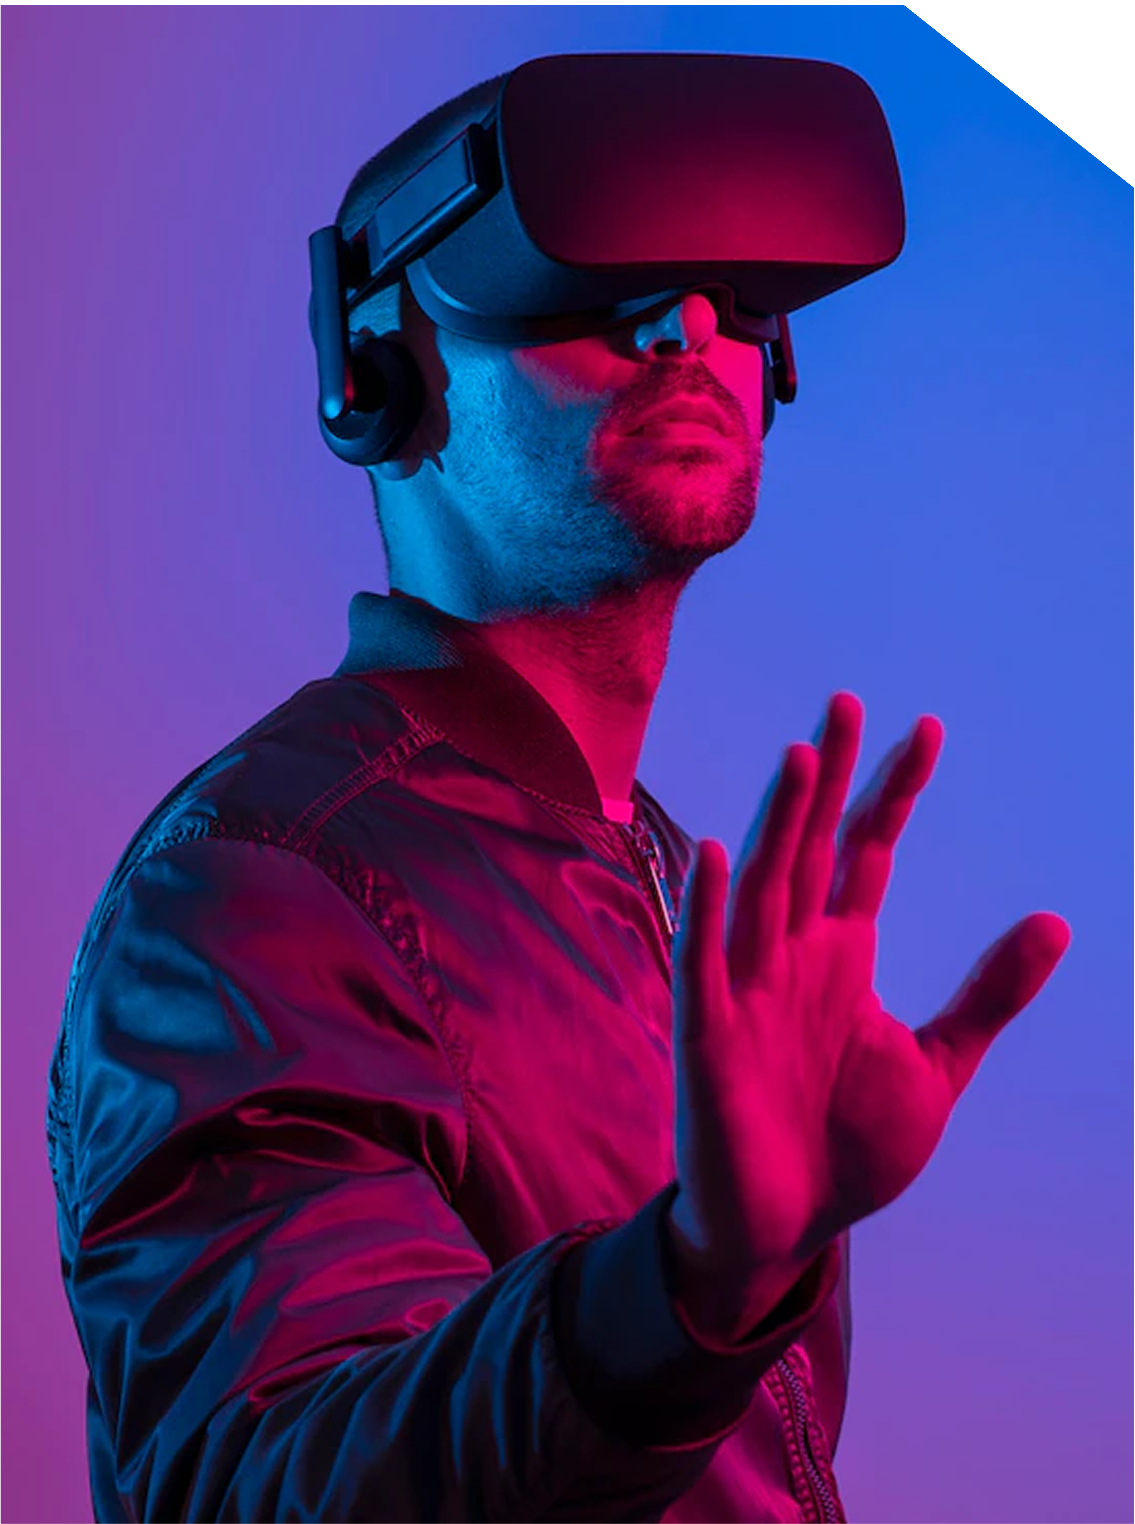
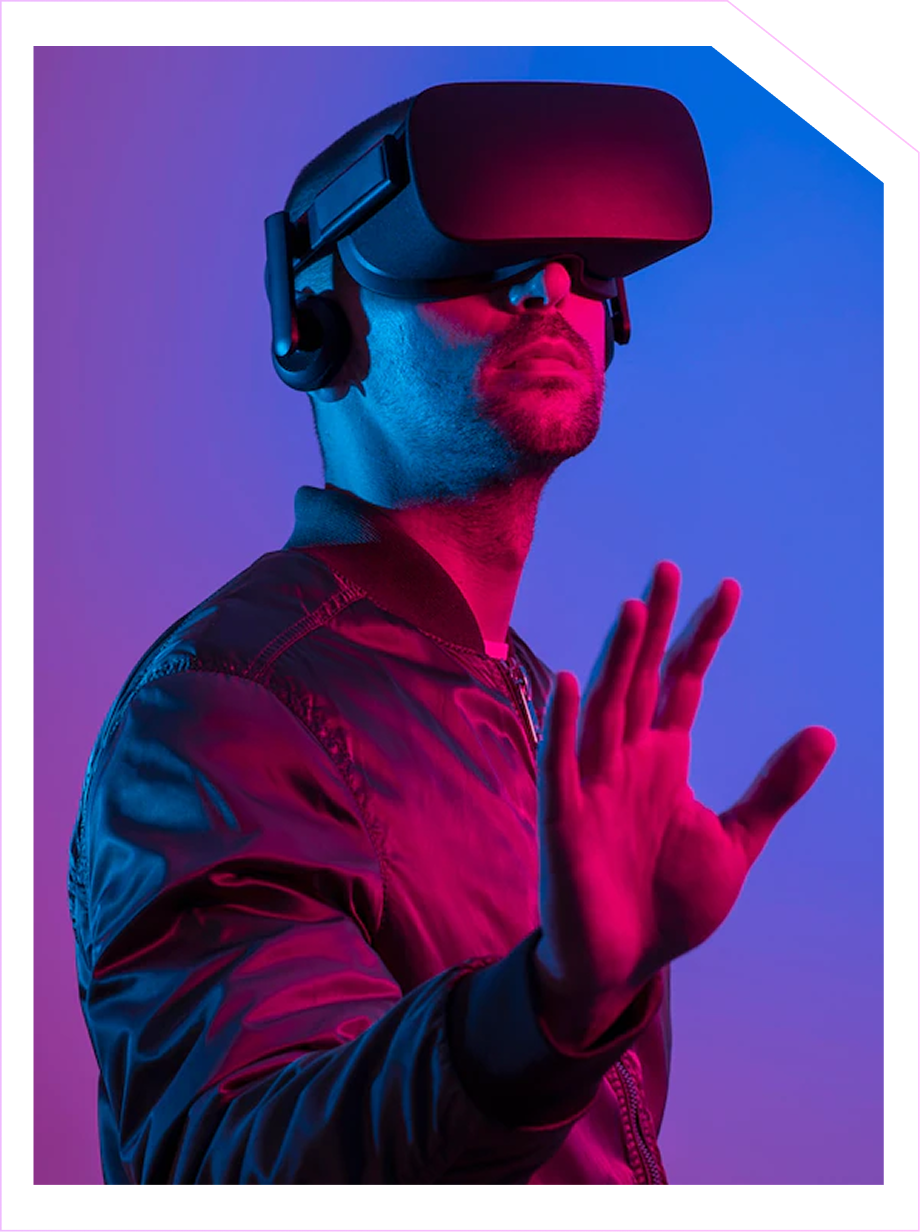
integrated fonts

diff --git a/src/components/sections/MarketOpportunities.jsx b/src/components/sections/MarketOpportunities.jsx
@@ -2,10 +2,7 @@ import Image from "next/image";
 
 const MarketOpportunities = () => {
   return (
-    <section
-      className="relative w-full flex items-center justify-center bg-cover bg-center px-6 py-6 md:py-20
-      bg-gradient-to-b from-[#0E1217] via-[#111827] to-[#0E1217] bg-blend-overlay"
-    >
+    <section className="relative w-full flex items-center justify-center bg-cover bg-center px-6 py-6 md:py-12 bg-gradient-to-b from-[#0E1217] via-[#0c331160] to-[#0E1217] bg-blend-overlay">
       {/* Background Images */}
       <div className="absolute inset-0">
         <Image
@@ -16,46 +13,47 @@ const MarketOpportunities = () => {
           quality={100}
         />
       </div>
+      <div className="absolute top-[33%] inset-0 backdrop-blur-lg bg-[#FFFFFF1A] z-10 h-[50%]"></div>
       <div className="p-6 md:p-6 rounded-lg max-w-5xl w-full text-white flex flex-col md:flex-row items-center gap-6 md:gap-12">
         {/* Image Section */}
-        <div className="relative w-full md:w-1/2">
+        <div className="relative z-20 w-full md:w-1/2 flex justify-end px-0 md:px-12">
           <div className="relative rounded-lg p-1">
             <Image
               src="/images/vr-user.png" // Replace with actual image path
               alt="VR User"
-              width={300}
-              height={400}
-              className="rounded-lg p-1 border border-gray-400  w-72 h-[60vh] object-cover"
+              width={400}
+              height={500}
+              className="rounded-lg p-1 w-[100%] h-auto object-cover"
             />
           </div>
         </div>
 
         {/* Text Content */}
-        <div className="w-full md:w-1/2">
-          <h2 className="text-2xl md:text-3xl font-bold mb-4">
+        <div className="w-full z-20 md:w-1/2">
+          <h2 className="text-2xl font-caudex md:text-4xl font-bold mb-4">
             Market Opportunities
           </h2>
-          <p className="text-sm md:text-base font-semibold mb-4">
+          <p className="text-sm md:text-md mt-8 font-poppins mb-4">
             Blackrose Club Targets The Most Active And Technology Savvy Target
             Group In The DACH Region And Will Later Expand To Serve The Global
             Market.
           </p>
-          <ul className="text-sm md:text-base space-y-2">
+          <ul className="text-sm md:text-md mt-3 font-poppins space-y-1">
             <li>
-              • <strong>Market:</strong> Around 66 Million E-Commerce Customers
+              • <strong>Market -</strong> Around 66 Million E-Commerce Customers
               In The DACH Region Spent Over 100 Billion Euros On Online
               Purchases In 2021. Most Popular Orders Were Clothes, Shoes, Food,
               And Beauty Products.
             </li>
             <li>
-              • <strong>Target Group:</strong> The Percentage Of Internet Users
+              • <strong>Target Group -</strong> The Percentage Of Internet Users
               In The EU Who Order Products Online Is Increasing, Especially
               Among 16-24 Years Old.
             </li>
             <li>
-              • <strong>Behavior:</strong> Consumers Prefer Online Over Physical
-              Orders Due To Convenience, Variety, Competitive Prices, And 24/7
-              Access.
+              • <strong>Behavior -</strong> Consumers Prefer Online Over
+              Physical Orders Due To Convenience, Variety, Competitive Prices,
+              And 24/7 Access.
             </li>
           </ul>
         </div>

diff --git a/src/components/layout/Footer.jsx b/src/components/layout/Footer.jsx
@@ -1,5 +1,6 @@
 import { footerData } from "@/utils/constants";
 import Image from "next/image";
+import Link from "next/link";
 
 
 
@@ -11,21 +12,21 @@ const Footer = () => {
         <div>
           <div className="inline-flex md:flex-row flex-col space-y-3 pl-2 pr-4 py-2 rounded-md items-center">
             <Image src="/logo/Logo.svg" width={40} height={40} alt="Logo" />
-            <span className="text-white font-bold text-lg ml-2">{footerData.companyName}</span>
+            <span className="text-white font-bakbak text-2xl ml-2">{footerData.companyName}</span>
           </div>
           <p className="mt-4 text-gray-400 text-sm">{footerData.description}</p>
           <div className="flex justify-center md:justify-start space-x-4 mt-4">
             {footerData.socialLinks.map(({ icon: Icon, href }, index) => (
-              <a key={index} href={href} className="text-2xl cursor-pointer hover:text-themeColor">
+              <Link key={index} href={href} className="text-2xl cursor-pointer hover:text-themeColor">
                 <Icon />
-              </a>
+              </Link>
             ))}
           </div>
         </div>
 
         {/* Middle Section */}
         <div>
-          <h3 className="font-semibold text-lg">Marketplace</h3>
+          <h3 className="font font-bakbak text-lg">Marketplace</h3>
           <ul className="mt-4 space-y-2 text-gray-400 text-sm">
             {footerData.marketplaceLinks.map((link, index) => (
               <li key={index} className="hover:text-themeColor cursor-pointer">
@@ -37,7 +38,7 @@ const Footer = () => {
 
         {/* Right Section */}
         <div>
-          <h3 className="font-semibold text-lg">Headquarters</h3>
+          <h3 className="font-bakbak text-lg">Headquarters</h3>
           {footerData.headquarters.map((hq, index) => (
             <p key={index} className="mt-4 text-gray-400 text-sm">
               {hq.address}
@@ -50,10 +51,10 @@ const Footer = () => {
 
       {/* Bottom Bar */}
       <div className="border-t bg-[#2B3238] md:px-[10%] flex flex-col md:flex-row justify-between items-center border-gray-700 mt-8 py-6 text-center text-gray-500 text-sm">
-        <div className="text-white">Copyright © 2022 Blackrose Club</div>
+        <div className="text-white font-poppins">Copyright © 2022 Blackrose Club</div>
         <div className="flex justify-center space-x-3 mt-2 text-md text-white">
           {footerData.footerNavLinks.map((link, index) => (
-            <span key={index} className="hover:text-themeColor cursor-pointer">
+            <span key={index} className="hover:text-themeColor font-poppins cursor-pointer">
               {link}
             </span>
           ))}
